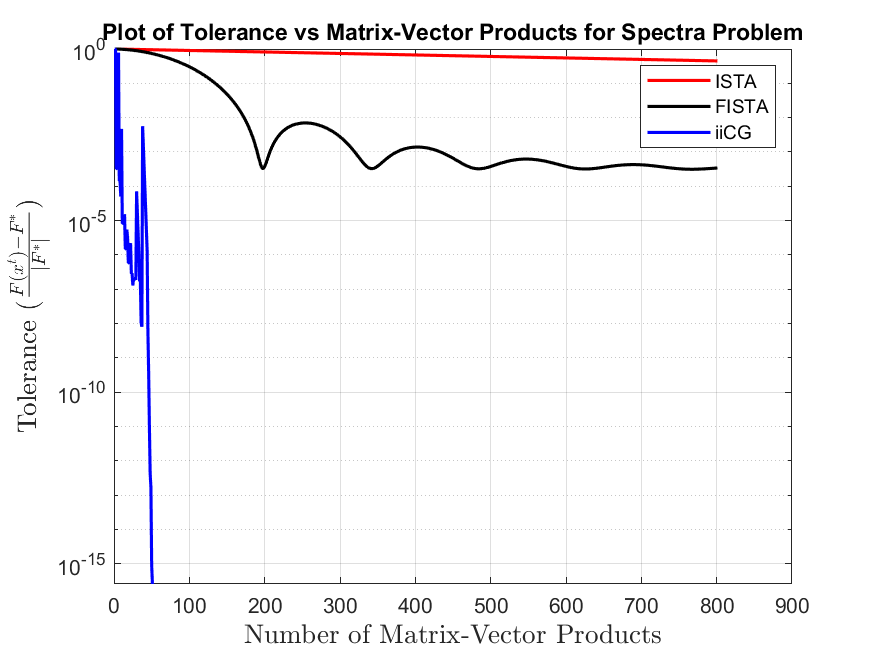
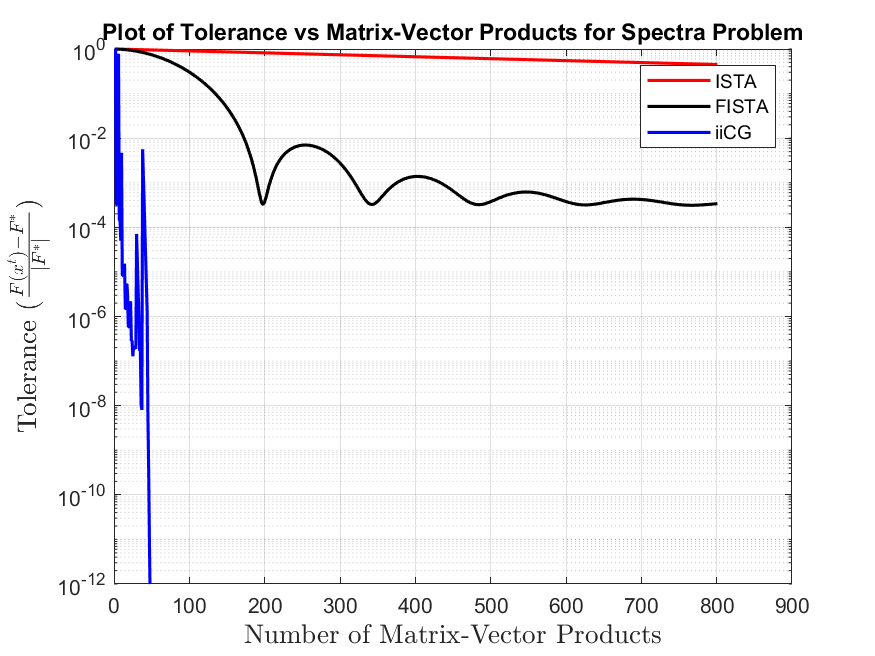
Added bar plot for CG move count and changed ylimit on log plots to avoid including machine precision points

diff --git a/test.m b/test.m
@@ -24,12 +24,12 @@ fvals_iicg = out2.fValues;
 % Running FISTA
 tau = tau(1);
 max_iter = length(fvals_iicg)+100;
-[x_fista,func_eval_fista,~,~,~]  =  FISTA(A,b,tau,Gamma,max_iter,'quad_l1');
+[~,func_eval_fista,~,~,~]  =  FISTA(A,b,tau,Gamma,max_iter,'quad_l1');
 
 % Running ISTA
 tau = tau(1);
 max_iter = length(fvals_iicg)+100;
-[x_ista,func_eval_ista,~,~]  =  ISTA_final(A,b,tau,Gamma,max_iter,'quad_l1');
+[~,func_eval_ista,~,~]  =  ISTA_final(A,b,tau,Gamma,max_iter,'quad_l1');
 
 % Finding the lowest function value among the 3 methods.
 Fstar = min([min(fvals_iicg), min(func_eval_ista), min(func_eval_fista)]);
@@ -54,7 +54,7 @@ title('Plot of Tolerance vs Matrix-Vector Products for Random Matrix Problem')
 % savefig('Plots/tolvsMV_rand.fig');
 print('Plots/tolvsMV_rand','-dpng');
 
-% Plotting with logarithmic x axis
+% Plotting with logarithmic y axis
 figure;
 semilogy(tol_ista, 'r', 'LineWidth', 1.5);
 hold on;
@@ -63,15 +63,24 @@ hold on;
 semilogy(tol_iiCG, 'b', 'LineWidth', 1.5);
 legend('ISTA', 'FISTA', 'iiCG');
 grid on;
+ylim([1e-12 inf]);
 xlabel('Number of Matrix-Vector Products', 'Interpreter','latex', 'FontSize', 13)
 ylabel('Tolerance ($\frac{F(x^t)-F^*}{|F^*|}$)', 'Interpreter','latex', 'FontSize', 13)
 title('Plot of Tolerance vs Matrix-Vector Products for Random Matrix Problem')
 % savefig('Plots/tolvsMV_rand_logy.fig');
 print('Plots/tolvsMV_log_rand','-dpng');
 
+p = length(out2.CGmvcount);
+a = sum(reshape(out2.CGmvcount,4,p/4)); % in case mod(p,n)=0
+labels = [];
+for i=1:67
+    labels = [labels strcat(string(4*i-3), '-', string(4*i))];
+end
+
 % Plotting CG Move Count for iiCG
 figure;
-plot(out2.CGmvcount, 'LineWidth', 1.5);
+bar(a, 'LineWidth', 1.5);
+set(gca, 'XTick', 1:67, 'XTickLabel',labels);
 grid on;
 xlabel('Iterations')
 ylabel('CG Move Count')
@@ -115,7 +124,7 @@ title('Plot of Tolerance vs Matrix-Vector Products for Random Matrix Problem')
 % savefig('Plots/tolvsMV_rand.fig');
 print('Plots/tolvsMV_randlll','-dpng');
 
-% Plotting with logarithmic x axis
+% Plotting with logarithmic y axis
 figure;
 semilogy(tol_ista, 'r', 'LineWidth', 1.5);
 hold on;
@@ -124,6 +133,7 @@ hold on;
 semilogy(tol_iiCG, 'b', 'LineWidth', 1.5);
 legend('ISTA', 'FISTA', 'iiCG');
 grid on;
+ylim([1e-12 inf]);
 xlabel('Number of Matrix-Vector Products', 'Interpreter','latex', 'FontSize', 13)
 ylabel('Tolerance ($\frac{F(x^t)-F^*}{|F^*|}$)', 'Interpreter','latex', 'FontSize', 13)
 title('Plot of Tolerance vs Matrix-Vector Products for Random Matrix Problem')

diff --git a/spectra_testing.m b/spectra_testing.m
@@ -54,7 +54,7 @@ title('Plot of Tolerance vs Matrix-Vector Products for Spectra Problem')
 print('Plots/tolvsMV','-dpng');
 
 
-% Plotting with logarithmic x axis
+% Plotting with logarithmic y axis
 figure;
 semilogy(tol_ista, 'r', 'LineWidth', 1.5);
 hold on;
@@ -63,6 +63,7 @@ hold on;
 semilogy(tol_iiCG, 'b', 'LineWidth', 1.5);
 legend('ISTA', 'FISTA', 'iiCG');
 grid on;
+ylim([1e-12 inf]);
 xlabel('Number of Matrix-Vector Products', 'Interpreter','latex', 'FontSize', 13)
 ylabel('Tolerance ($\frac{F(x^t)-F^*}{|F^*|}$)', 'Interpreter','latex', 'FontSize', 13)
 title('Plot of Tolerance vs Matrix-Vector Products for Spectra Problem')
@@ -117,7 +118,7 @@ title('Plot of Tolerance vs Matrix-Vector Products for Spectra Problem')
 print('Plots/tolvsMVlll','-dpng');
 
 
-% Plotting with logarithmic x axis
+% Plotting with logarithmic y axis
 figure;
 semilogy(tol_ista, 'r', 'LineWidth', 1.5);
 hold on;
@@ -126,6 +127,7 @@ hold on;
 semilogy(tol_iiCG, 'b', 'LineWidth', 1.5);
 legend('ISTA', 'FISTA', 'iiCG');
 grid on;
+ylim([1e-12 inf]);
 xlabel('Number of Matrix-Vector Products', 'Interpreter','latex', 'FontSize', 13)
 ylabel('Tolerance ($\frac{F(x^t)-F^*}{|F^*|}$)', 'Interpreter','latex', 'FontSize', 13)
 title('Plot of Tolerance vs Matrix-Vector Products for Spectra Problem')
